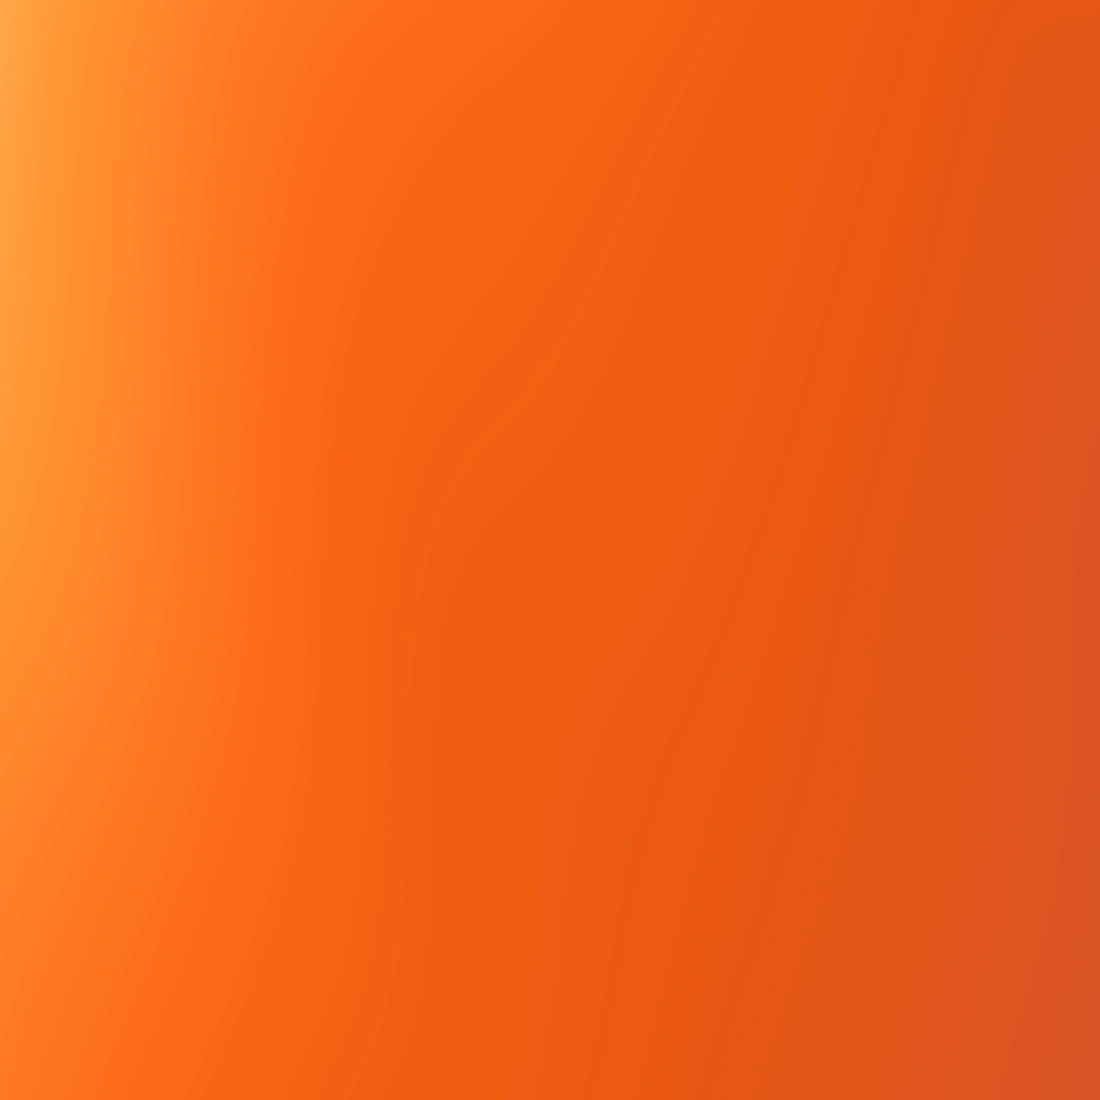
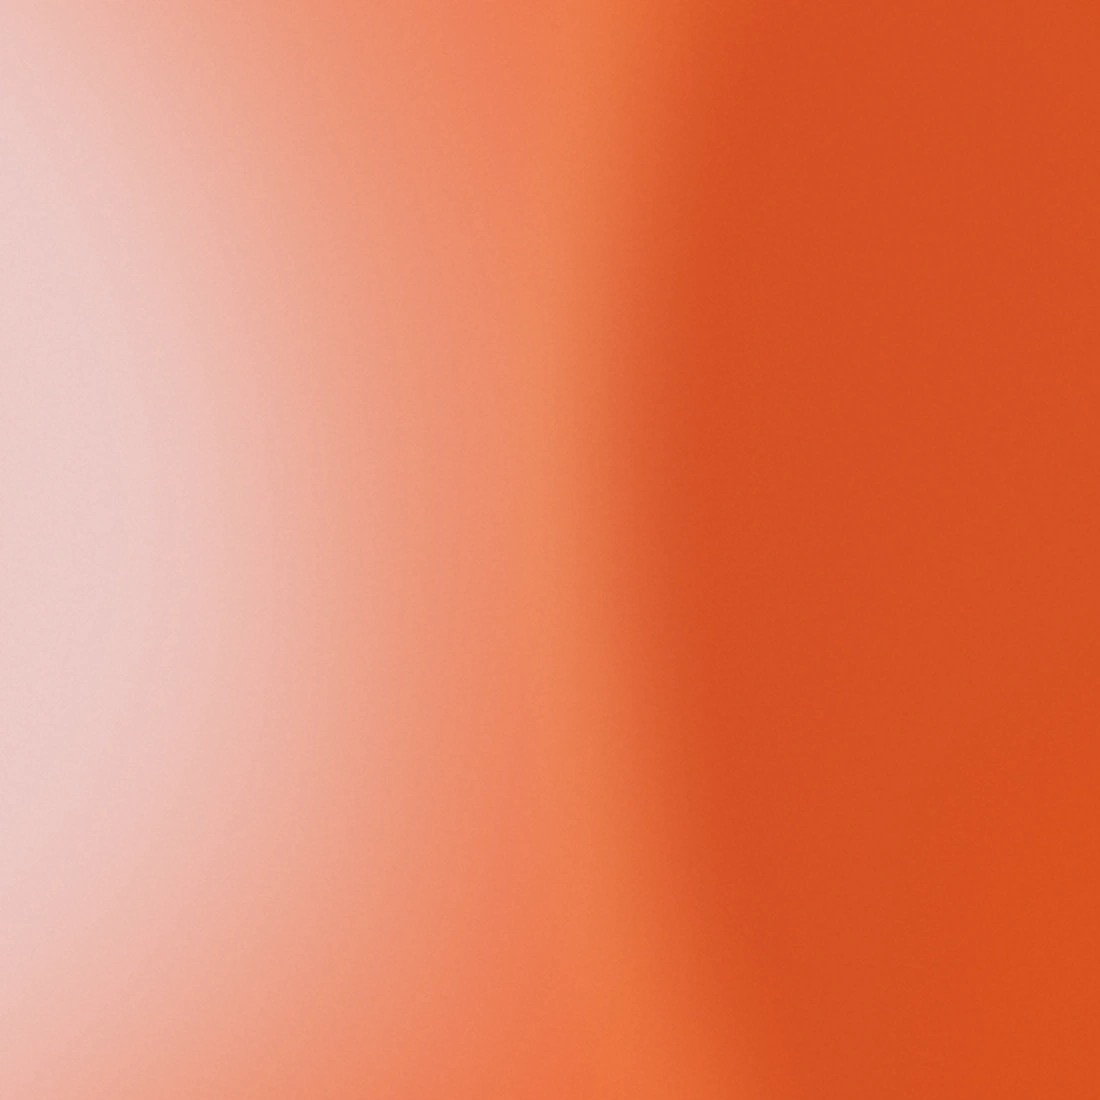
fix(landing): the grounds have depth, and the page stops halving them
Owner, 2026-09-07, with two references: "i want gradients like this, do you see
the style? theres like depth" and "the landing page seems to blur them".

THE BLUR WAS `opacity: 0.52` ON .band-art img, AND IT COST FOUR PASSES ON THE ART
TO FIND. Every ground was composited at roughly half strength over a white page,
and half of any colour over white is a pale tint of it. Nothing done to the images
could survive that, which is why three rounds of "make it more orange" came back
as peach. 0.52 was right for the art it was written for — pale blue washes filling
their whole frame — and wrong for a ground with a form in it. When a ground looks
weak, read the composited opacity in the browser before touching the palette.

The rest, in the order it was found:

- DEPTH IS STACKED MASSES, NOT A RAMP. The references have a dark form clearly in
  front, a lighter ground behind, and a lit rim where they meet. The generator now
  composites a back mass, a front mass, and a halo drawn from the difference
  between the front mass and a 5% larger copy of itself — which is what an edge
  lit from behind actually is, and the detail that makes it read as depth.
- EVERY MASS IS BIGGER THAN THE FRAME WITH ITS CENTRE OFF IT, so only its edge
  crosses as one long arc. A form small enough to fit is a blob, and the first
  attempt was exactly that: a dark disc floating in orange.
- ITS EDGE IS DEFINED, NOT DISSOLVED. Falloff near 0.18 of the mass's radius. At
[…]

diff --git a/landing/app/art.css b/landing/app/art.css
@@ -86,23 +86,23 @@
        while the art was a pale blue nothing; with real colour in it, it cut across the
        lede on a phone. 52% from 48% lands the fade at 3.3% and 92.7%, inside the box
        at both ends. Change these two numbers together or the edge comes back. */
-    ellipse 62% 52% at 68% 48%,
+    ellipse 66% 58% at 70% 47%,
     #000 0%,
-    #000 46%,
-    rgba(0, 0, 0, 0.55) 70%,
-    transparent 86%
+    #000 52%,
+    rgba(0, 0, 0, 0.5) 74%,
+    transparent 90%
   );
   mask-image: radial-gradient(
-    ellipse 62% 52% at 68% 48%,
+    ellipse 66% 58% at 70% 47%,
     #000 0%,
-    #000 46%,
-    rgba(0, 0, 0, 0.55) 70%,
-    transparent 86%
+    #000 52%,
+    rgba(0, 0, 0, 0.5) 74%,
+    transparent 90%
   );
   /* Light mode is a white page: the art has to sit far back or it shouts. Dark
      mode is a black page, where the same opacity reads as almost nothing, so it
      gets more — see the media query at the foot of this block. */
-  opacity: 0.5;
+  opacity: 0.9;
 }
 @media (prefers-color-scheme: dark) {
   :root:not([data-theme="light"]) .nhero-glow img { opacity: 0.72; }
@@ -363,17 +363,26 @@
    measurement pointed here. The plateau now holds to 40% and the falloff starts from 80%, which is
    what puts real colour on the page. The text column is on the OPPOSITE side of every band
    (`data-side` / `data-art`), so a wider wash still never runs under a sentence. */
+/* 🔴 A HALF, NOT A HAZE — owner, 2026-09-07: "the landing page seems to blur them", and then, asked
+   how far to go, "keep white, stop the fade". These were ellipses pushed off-frame, so the ground
+   never reached full strength anywhere on screen: the page showed the soft outside of a shape and
+   the form inside it was thrown away. That is the blur, and it was in the CSS, not the art.
+
+   A LINEAR mask instead. The art side is fully opaque out to 44% and gone by 90%, so one half of
+   every band is a real surface with a real edge in it and the other half is the white page the copy
+   is set on. The images no longer fade out on their own either (scripts/art-gradient.mjs is
+   full-bleed now) — one job each, or the same fade happens twice and neither half is committed. */
 /* THE TWO MASKS ARE THE LAYOUT. Everything else about a band is padding. The
    ellipse is pushed off the frame so only its soft shoulder is ever on screen —
    centring it would put the bright core behind the middle of the band, which is
    exactly where the sentence is. */
 .band[data-side="right"] .band-art img {
-  -webkit-mask-image: radial-gradient(ellipse 86% 112% at 104% 50%, #000 0%, #000 40%, rgba(0,0,0,0.80) 60%, rgba(0,0,0,0.26) 78%, transparent 92%);
-  mask-image: radial-gradient(ellipse 86% 112% at 104% 50%, #000 0%, #000 40%, rgba(0,0,0,0.80) 60%, rgba(0,0,0,0.26) 78%, transparent 92%);
+  -webkit-mask-image: linear-gradient(to left, #000 0%, #000 44%, rgba(0,0,0,0.72) 60%, rgba(0,0,0,0.24) 76%, transparent 90%);
+  mask-image: linear-gradient(to left, #000 0%, #000 44%, rgba(0,0,0,0.72) 60%, rgba(0,0,0,0.24) 76%, transparent 90%);
 }
 .band[data-side="left"] .band-art img {
-  -webkit-mask-image: radial-gradient(ellipse 86% 112% at -4% 50%, #000 0%, #000 40%, rgba(0,0,0,0.80) 60%, rgba(0,0,0,0.26) 78%, transparent 92%);
-  mask-image: radial-gradient(ellipse 86% 112% at -4% 50%, #000 0%, #000 40%, rgba(0,0,0,0.80) 60%, rgba(0,0,0,0.26) 78%, transparent 92%);
+  -webkit-mask-image: linear-gradient(to right, #000 0%, #000 44%, rgba(0,0,0,0.72) 60%, rgba(0,0,0,0.24) 76%, transparent 90%);
+  mask-image: linear-gradient(to right, #000 0%, #000 44%, rgba(0,0,0,0.72) 60%, rgba(0,0,0,0.24) 76%, transparent 90%);
 }
 
 /* ── WHEN THE WASH CROSSES SIDES ──────────────────────────────────────────────
@@ -387,12 +396,12 @@
    same, so source order is what decides, and at 900px the mask must still go to the
    top edge for every band. */
 .band[data-art="left"] .band-art img {
-  -webkit-mask-image: radial-gradient(ellipse 86% 112% at -4% 50%, #000 0%, #000 40%, rgba(0,0,0,0.80) 60%, rgba(0,0,0,0.26) 78%, transparent 92%);
-  mask-image: radial-gradient(ellipse 86% 112% at -4% 50%, #000 0%, #000 40%, rgba(0,0,0,0.80) 60%, rgba(0,0,0,0.26) 78%, transparent 92%);
+  -webkit-mask-image: linear-gradient(to right, #000 0%, #000 44%, rgba(0,0,0,0.72) 60%, rgba(0,0,0,0.24) 76%, transparent 90%);
+  mask-image: linear-gradient(to right, #000 0%, #000 44%, rgba(0,0,0,0.72) 60%, rgba(0,0,0,0.24) 76%, transparent 90%);
 }
 .band[data-art="right"] .band-art img {
-  -webkit-mask-image: radial-gradient(ellipse 86% 112% at 104% 50%, #000 0%, #000 40%, rgba(0,0,0,0.80) 60%, rgba(0,0,0,0.26) 78%, transparent 92%);
-  mask-image: radial-gradient(ellipse 86% 112% at 104% 50%, #000 0%, #000 40%, rgba(0,0,0,0.80) 60%, rgba(0,0,0,0.26) 78%, transparent 92%);
+  -webkit-mask-image: linear-gradient(to left, #000 0%, #000 44%, rgba(0,0,0,0.72) 60%, rgba(0,0,0,0.24) 76%, transparent 90%);
+  mask-image: linear-gradient(to left, #000 0%, #000 44%, rgba(0,0,0,0.72) 60%, rgba(0,0,0,0.24) 76%, transparent 90%);
 }
 
 /* 🔴 A CORNER, NOT A SIDE, WHEN THE WASH LANDS ON THE COPY'S OWN SIDE. `Built on
@@ -412,18 +421,47 @@
    edge nothing else wants, and there the generous mask above is right — the corner
    variant made it so faint the band looked unlit on that side. */
 .band[data-side="left"][data-art="right"] .band-art img {
-  -webkit-mask-image: radial-gradient(ellipse 62% 88% at 110% 16%, #000 0%, rgba(0,0,0,0.7) 26%, rgba(0,0,0,0.26) 58%, transparent 82%);
-  mask-image: radial-gradient(ellipse 62% 88% at 110% 16%, #000 0%, rgba(0,0,0,0.7) 26%, rgba(0,0,0,0.26) 58%, transparent 82%);
+  /* 🔴 THE ONE BAND THAT KEPT ITS OWN MASK, AND IT WAS THE LAST THING STILL FADING. Every other
+     ground moved to a linear half; this corner variant still fell to 26% opacity by 58% across,
+     so `Built on evidence` was the one band with no visible form in it. Same shape as the others
+     now, biased up so it clears the copy. */
+  -webkit-mask-image: linear-gradient(to left, #000 0%, #000 42%, rgba(0,0,0,0.7) 58%, rgba(0,0,0,0.22) 74%, transparent 88%);
+  mask-image: linear-gradient(to left, #000 0%, #000 42%, rgba(0,0,0,0.7) 58%, rgba(0,0,0,0.22) 74%, transparent 88%);
 }
 
 /* Same reasoning as the hero light: a white page needs the art held back, a black
    page needs it brought forward, or the identical file reads as garish on one and
    absent on the other. */
-.band-art img { opacity: 0.52; }
-@media (prefers-color-scheme: dark) {
-  :root:not([data-theme="light"]) .band-art img { opacity: 0.74; }
+/* 🔴🔴 THIS OPACITY WAS THE "BLUR", AND IT COST FOUR PASSES ON THE ART TO FIND. Owner, 2026-09-07:
+   "the landing page seems to blur them". Measured in the browser: `.band-art img` was compositing
+   at 0.52 over a white page, so every ground arrived at roughly half strength — and half of any
+   colour over white is a pale tint of it. Nothing done to the images could survive that, which is
+   why "make it more orange" kept coming back as peach three times running.
+
+   It was the right number for the old art: those grounds were pale blue washes that filled their
+   whole frame, and they needed holding back. These have a form in them and a mask that already
+   decides where they stop (see below), so they are shown as drawn. When a ground looks weak, read
+   the composited opacity in the browser before touching the palette. */
+.band-art img { opacity: 0.96; }
+
+/* 🔴 THE RING BAND CANNOT HAVE A HALF, BECAUSE ITS COPY IS IN THE MIDDLE. Every other band sets its
+   words against one edge, so a wash on the other edge never meets them. `Learn anything` is a
+   centred sentence inside a ring of twelve subjects — there is no far side to put colour on. So it
+   keeps a wash rather than a surface: the same art, held back and stopped well before the centre. */
+.ring-band .band-art img {
+  opacity: 0.62;
+  -webkit-mask-image: linear-gradient(to right, #000 0%, rgba(0,0,0,0.82) 22%, rgba(0,0,0,0.34) 44%, transparent 62%);
+  mask-image: linear-gradient(to right, #000 0%, rgba(0,0,0,0.82) 22%, rgba(0,0,0,0.34) 44%, transparent 62%);
 }
-:root[data-theme="dark"] .band-art img { opacity: 0.74; }
+@media (prefers-color-scheme: dark) {
+  :root:not([data-theme="light"]) .ring-band .band-art img { opacity: 0.7; }
+}
+:root[data-theme="dark"] .ring-band .band-art img { opacity: 0.7; }
+
+@media (prefers-color-scheme: dark) {
+  :root:not([data-theme="light"]) .band-art img { opacity: 0.88; }
+}
+:root[data-theme="dark"] .band-art img { opacity: 0.88; }
 
 /* The corner mask above hands back roughly a fifth of the wash's area, so this band
    gets a fifth of it back in strength — otherwise the change the owner asked for is
@@ -431,11 +469,11 @@
    away". It buys real colour where it counts (the corner goes rgb(194,213,234) →
    rgb(182,205,231)) and costs almost nothing where it must not (the background behind
    the copy's longest line goes rgb(243,248,252) → rgb(241,247,251), contrast 5.6:1). */
-.band[data-side="left"][data-art="right"] .band-art img { opacity: 0.62; }
+.band[data-side="left"][data-art="right"] .band-art img { opacity: 0.96; }
 @media (prefers-color-scheme: dark) {
-  :root:not([data-theme="light"]) .band[data-side="left"][data-art="right"] .band-art img { opacity: 0.84; }
+  :root:not([data-theme="light"]) .band[data-side="left"][data-art="right"] .band-art img { opacity: 0.88; }
 }
-:root[data-theme="dark"] .band[data-side="left"][data-art="right"] .band-art img { opacity: 0.84; }
+:root[data-theme="dark"] .band[data-side="left"][data-art="right"] .band-art img { opacity: 0.88; }
 
 /* ── THE TWO BANDS WITH A FIGURE OVER THE WASH ────────────────────────────────
    `Learn anything` and `Built on evidence` carry an engraved classical sculpture —
@@ -1016,7 +1054,7 @@
      looks like it is rising out of the edge rather than being cut off by it. */
   -webkit-mask-image: linear-gradient(to top, rgba(0,0,0,0.5) 0%, #000 11%, rgba(0,0,0,0.68) 24%, rgba(0,0,0,0.22) 34%, transparent 44%);
   mask-image: linear-gradient(to top, rgba(0,0,0,0.5) 0%, #000 11%, rgba(0,0,0,0.68) 24%, rgba(0,0,0,0.22) 34%, transparent 44%);
-  opacity: 0.5;
+  opacity: 0.88;
 }
 @media (prefers-color-scheme: dark) {
   :root:not([data-theme="light"]) .nclose-art img { opacity: 0.6; }

diff --git a/landing/components/home/Features.tsx b/landing/components/home/Features.tsx
@@ -146,7 +146,11 @@ const BANDS: readonly Band[] = [
     id: "evidence",
     art: "/nemesis/art/evidence-wash.webp",
     blur: EVIDENCE_WASH_BLUR,
-    artSide: "right",
+    /* 🔴 `artSide: "right"` IS GONE WITH THE STATUE IT WAS AVOIDING. It existed for one reason —
+       owner, 2026-08-25: "make the gradients be on the opposite side of the contrast images" — and
+       the contrast image was the seated figure that sat on this band's left. With the engraving cut
+       and the wash now at full strength, sending it right put a solid orange field directly behind
+       this band's copy. `data-side` alone puts the wash opposite the words, which is the rule. */
     head: "Built on evidence",
     body: "Scaffolding, worked examples, retrieval practice and spaced review. Four methods with real research behind them, running under every session.",
   },
